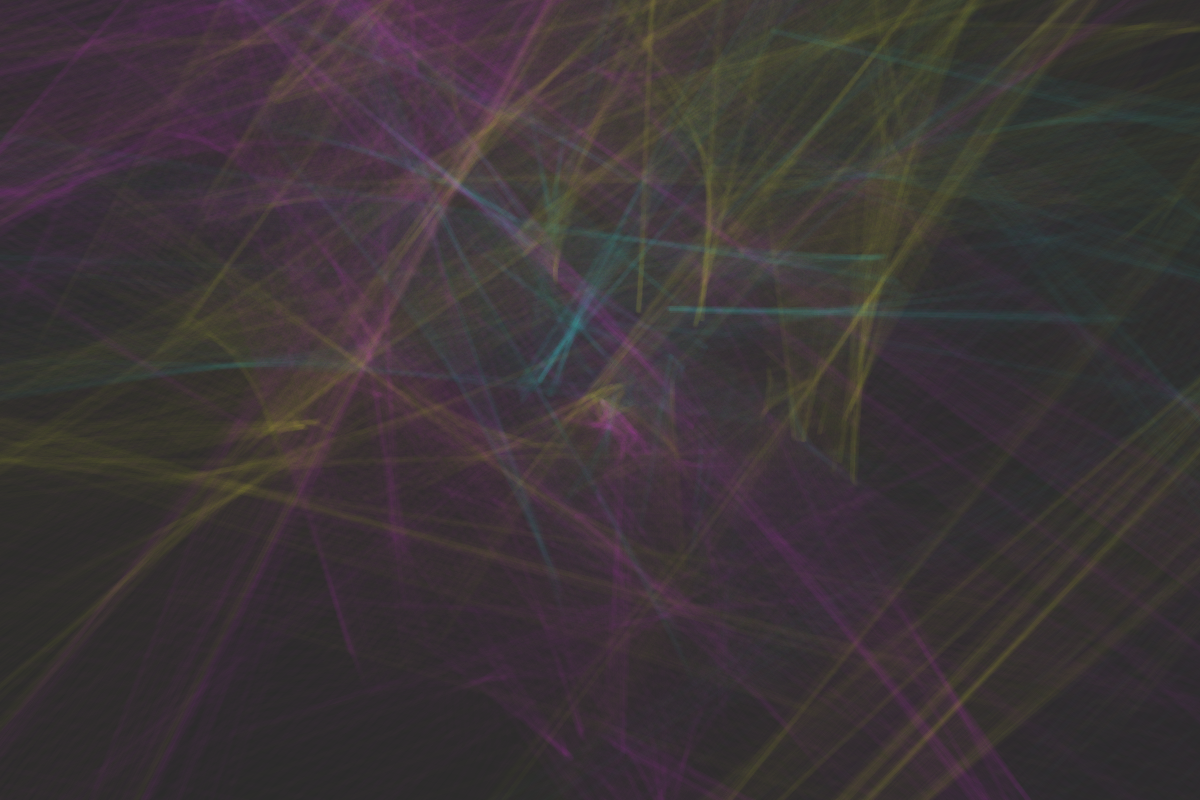
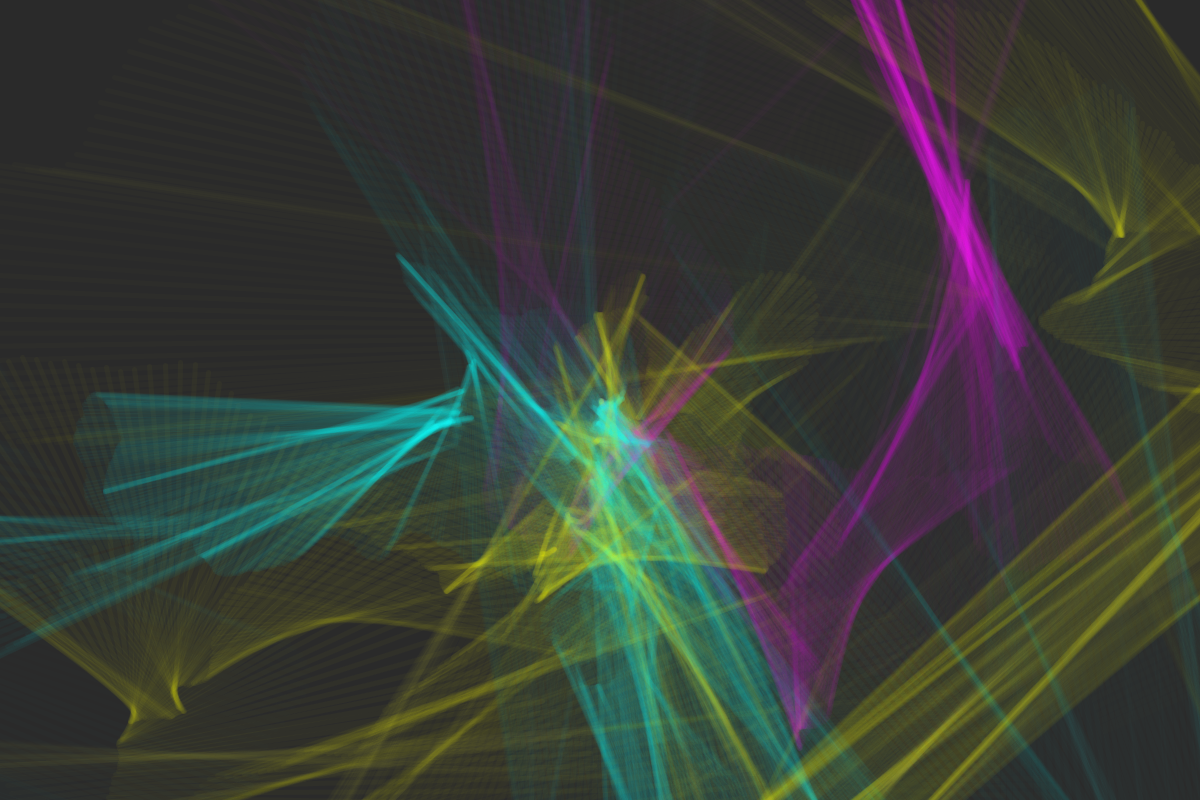
Add s_244

diff --git a/index.html b/index.html
@@ -272,6 +272,15 @@
 
 <hr/>
 
+<a id="s_244" href="#s_244"><h2>#244</h2></a>
+<p>Python code <a class="bold_write" href="https://github.com/berinhard/sketches/tree/master/s_244/" target="_blank">here</a></p>
+
+<img class="lazy" alt="s_244" data-src="s_244/cover.png"></img>
+<p>Linking particles</p>
+<span>Daily sketch - 11/03/2019</span>
+
+<hr/>
+
 <a id="s_243" href="#s_243"><h2>#243</h2></a>
 <p>Python code <a class="bold_write" href="https://github.com/berinhard/sketches/tree/master/s_243/" target="_blank">here</a></p>
 

diff --git a/templates/index_base.html b/templates/index_base.html
@@ -274,6 +274,15 @@
 
 <hr/>
 
+<a id="s_244" href="#s_244"><h2>#244</h2></a>
+<p>Python code <a class="bold_write" href="https://github.com/berinhard/sketches/tree/master/s_244/" target="_blank">here</a></p>
+
+<img class="lazy" alt="s_244" data-src="s_244/cover.png"></img>
+<p>Linking particles</p>
+<span>Daily sketch - 11/03/2019</span>
+
+<hr/>
+
 <a id="s_243" href="#s_243"><h2>#243</h2></a>
 <p>Python code <a class="bold_write" href="https://github.com/berinhard/sketches/tree/master/s_243/" target="_blank">here</a></p>
 
